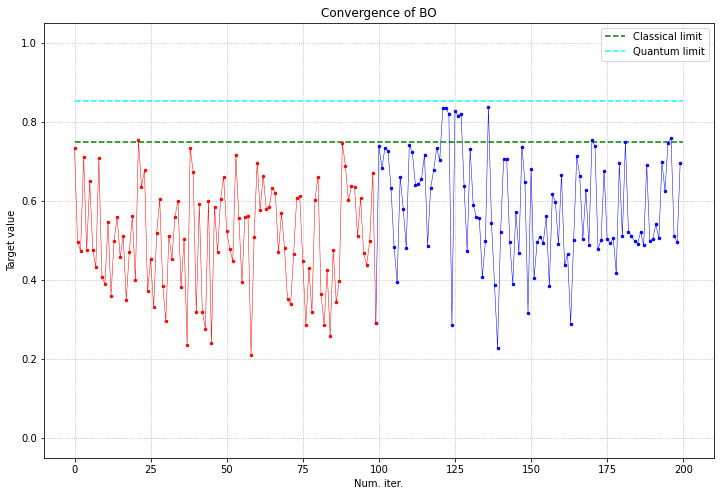
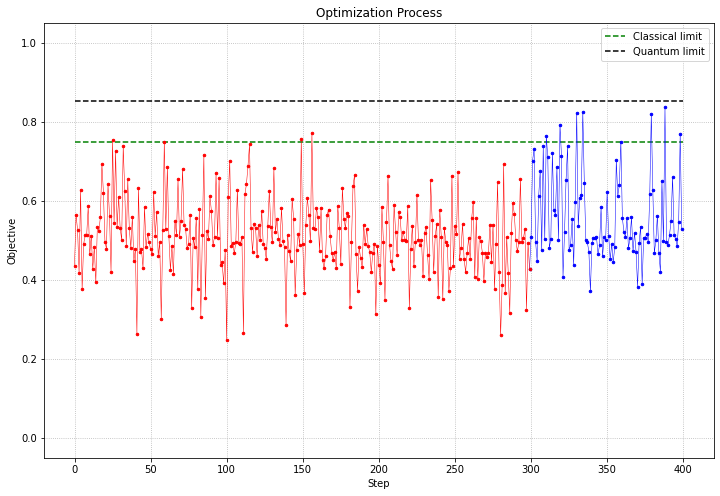
updated chsh post

diff --git a/post/bell/index.html b/post/bell/index.html
@@ -771,10 +771,10 @@ Many industries and Universities are developing interesting tools for experiment
 <figure id="figure-parameterized-quantum-circuit">
 
 
-  <a data-fancybox="" href="/post/bell/img/circuit_hu4c0bf548b1fa199fd10b3a8d446cb0bc_14743_2000x2000_fit_lanczos_2.png" data-caption="Parameterized Quantum Circuit">
+  <a data-fancybox="" href="/post/bell/img/circuit_hue28cdff5686ffcfa94a7504cb0e5e18c_21604_2000x2000_fit_lanczos_2.png" data-caption="Parameterized Quantum Circuit">
 
 
-  <img data-src="/post/bell/img/circuit_hu4c0bf548b1fa199fd10b3a8d446cb0bc_14743_2000x2000_fit_lanczos_2.png" class="lazyload" alt="" width="513" height="204">
+  <img data-src="/post/bell/img/circuit_hue28cdff5686ffcfa94a7504cb0e5e18c_21604_2000x2000_fit_lanczos_2.png" class="lazyload" alt="" width="599" height="264">
 </a>
 
 
@@ -788,7 +788,7 @@ Many industries and Universities are developing interesting tools for experiment
 </figure>
 
 <p>where the four qubits are initialized to $|0\rangle$. The transformations which operate on these qubits are Hadamard gates (denoted by $H$), rotations $R_X$ and $R_Z$ (respectively by the $X$ and $Z$ axis) and CNOTs. Rotations and controlled-not gates are parameterized by the $x*$ you see in the pictures: I&rsquo;ve constrained the rotational parameters into $[0, 2\pi]$ and the exponents of the CNOTs to $[-2, 2]$. The last *moment* of the circuit is the one dedicated to Measurements, which happen in the computational basis.</p>
-<p>For every set of fixed parameters a simulation of $N=5000$ runs is operated and, in the end, a winning statistic is calculated as $N^w / N \in [0, 1]$, where $N^w$ is the number of times that the winning condition is satisfied. This function is then maximized through 
+<p>For every set of fixed parameters a simulation of $N=1000$ runs is operated and, in the end, a winning statistic is calculated as $N^w / N \in [0, 1]$, where $N^w$ is the number of times that the winning condition is satisfied. This function is then maximized through 
 <a href="https://github.com/fmfn/BayesianOptimization" target="_blank" rel="noopener">Bayesian Optimization</a> resulting in a set of parameters which are able to win the game:</p>
 
 
@@ -812,10 +812,10 @@ Many industries and Universities are developing interesting tools for experiment
 <figure id="figure-convergence-of-bo">
 
 
-  <a data-fancybox="" href="/post/bell/img/bo_hudeda4c1d4ab9458826b6547fa4ae320a_55004_2000x2000_fit_lanczos_2.png" data-caption="&amp;lsquo;&amp;lsquo;Convergence&amp;rsquo;&amp;rsquo; of BO">
+  <a data-fancybox="" href="/post/bell/img/bo_hu999867a8f78e53b855f99f20ee9487ec_63804_2000x2000_fit_lanczos_2.png" data-caption="&amp;lsquo;&amp;lsquo;Convergence&amp;rsquo;&amp;rsquo; of BO">
 
 
-  <img data-src="/post/bell/img/bo_hudeda4c1d4ab9458826b6547fa4ae320a_55004_2000x2000_fit_lanczos_2.png" class="lazyload" alt="" width="720" height="496">
+  <img data-src="/post/bell/img/bo_hu999867a8f78e53b855f99f20ee9487ec_63804_2000x2000_fit_lanczos_2.png" class="lazyload" alt="" width="720" height="496">
 </a>
 
 
